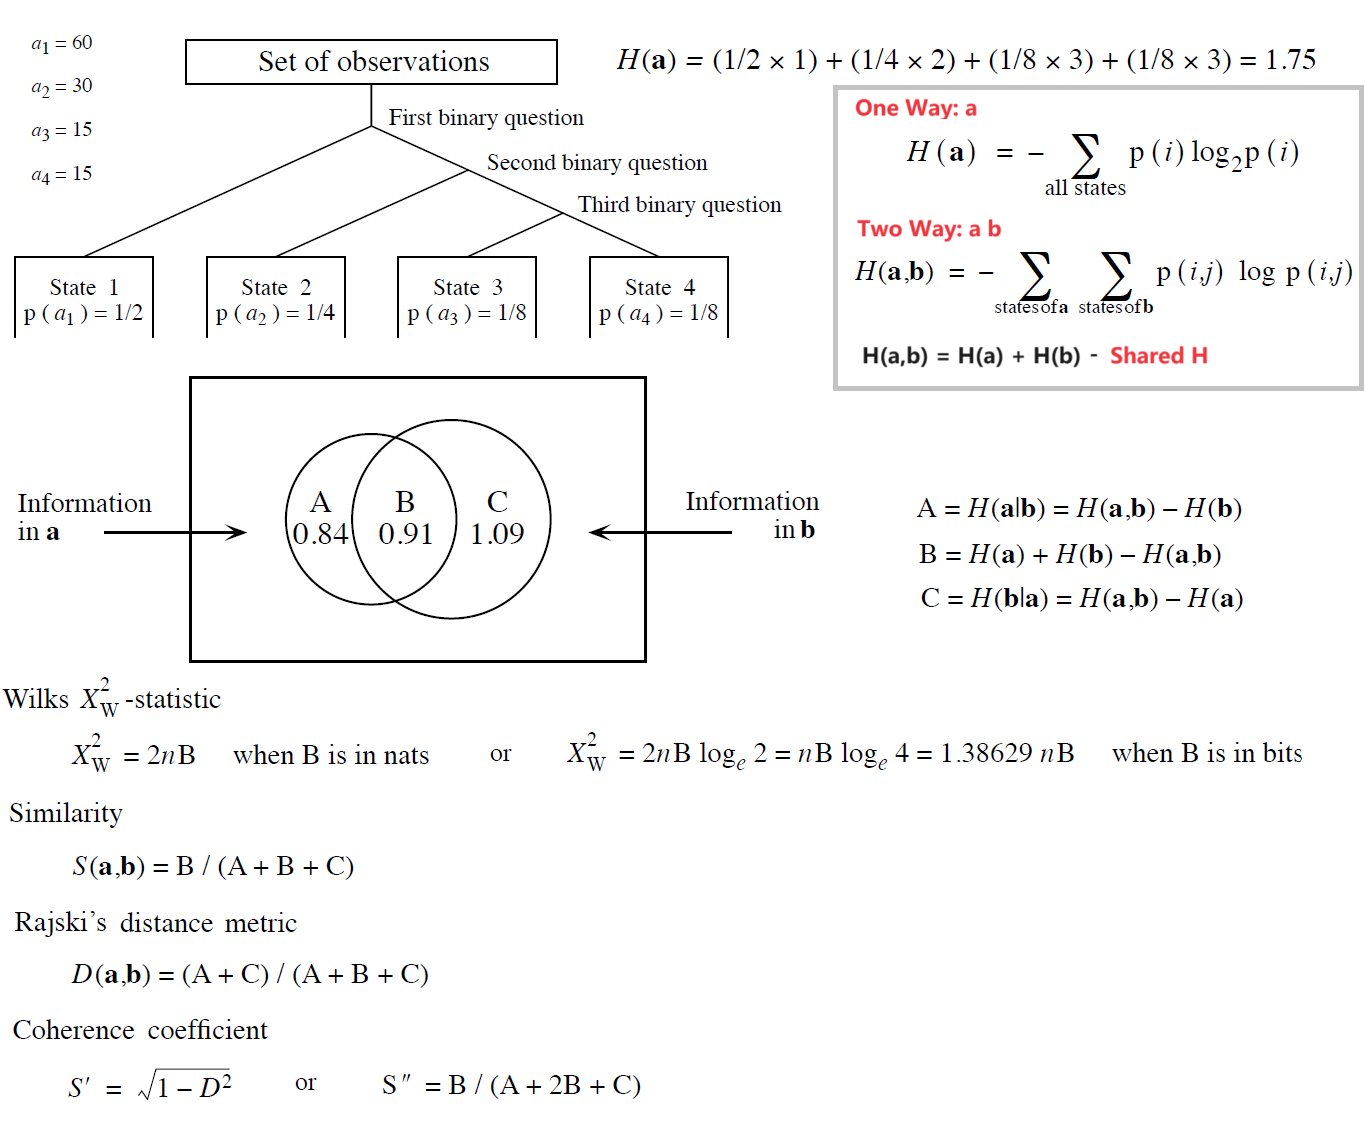
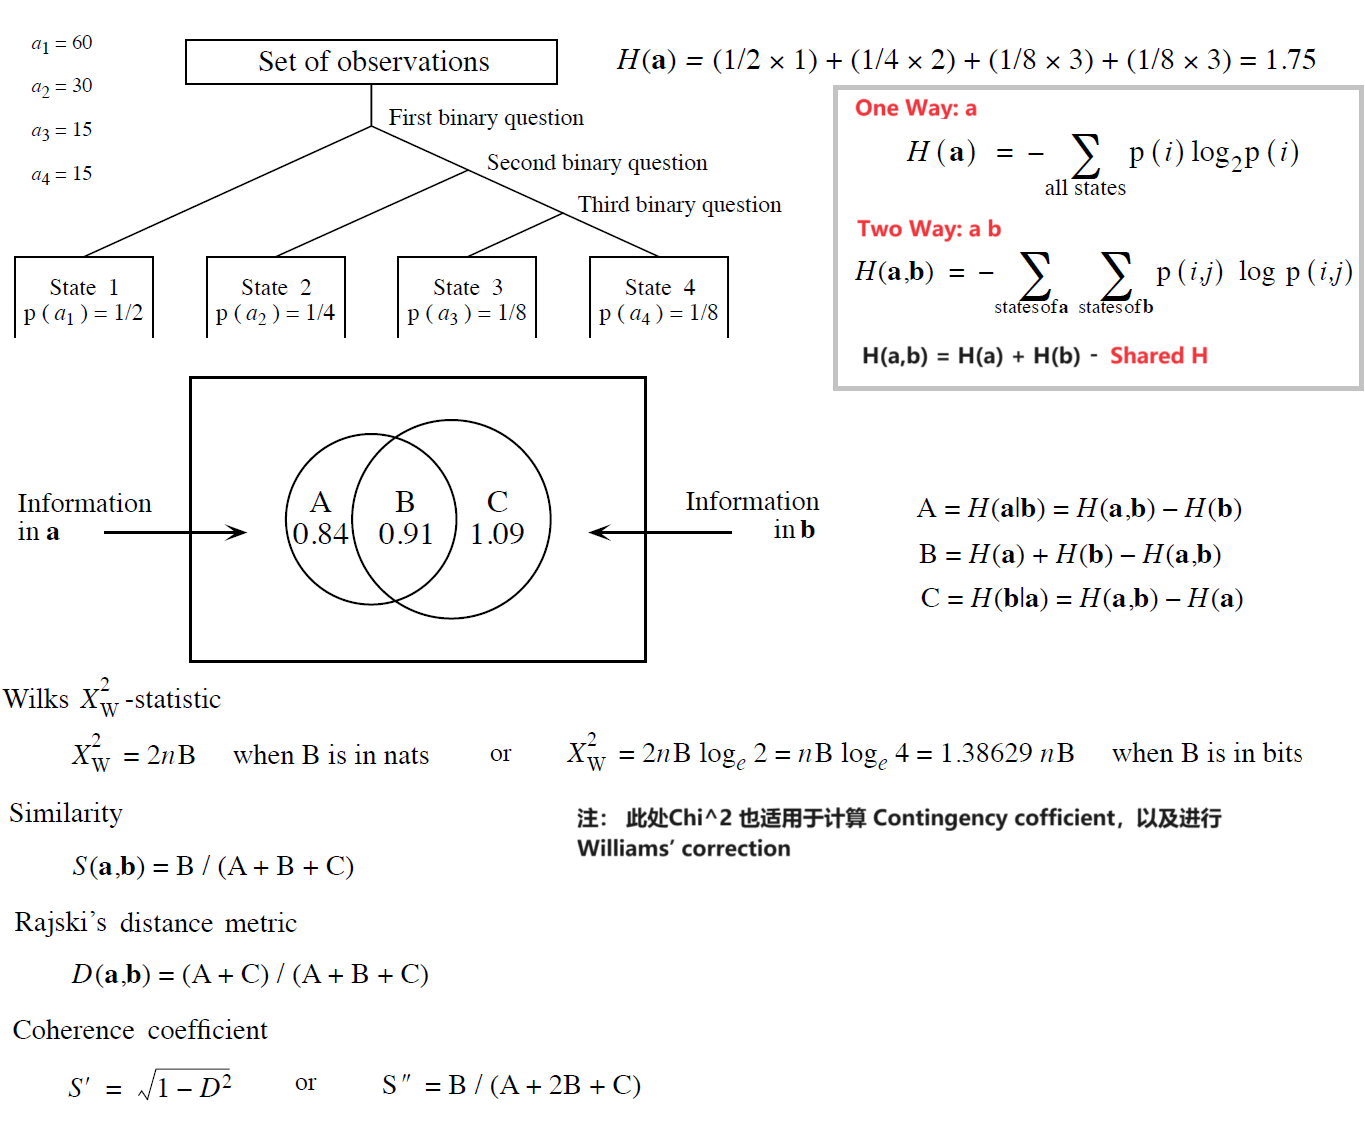
fix

Changed region(s): [[0.4308, 0.7168, 0.8923, 0.7792]]

diff --git a/docs/Statistics/Basis_Categorical.md b/docs/Statistics/Basis_Categorical.md
@@ -133,4 +133,7 @@ img{
 
 ## 参考
 Fisher 精确检验：https://zhuanlan.zhihu.com/p/434017609  
-[Tschuproff / Pearson contingency coefficient](./Ecology/Contingency.png):  $\chi^2$ 被用于度量物种间的关联（基于0/1数据）
+
+[Tschuproff / Pearson contingency coefficient](./Ecology/Contingency_coeff.png):  $\chi^2$ 被用于度量物种间的关联（基于0/1数据）  
+
+更多Contingency Table 统计见 [Ecology](Ecology.md) Qualitative 
